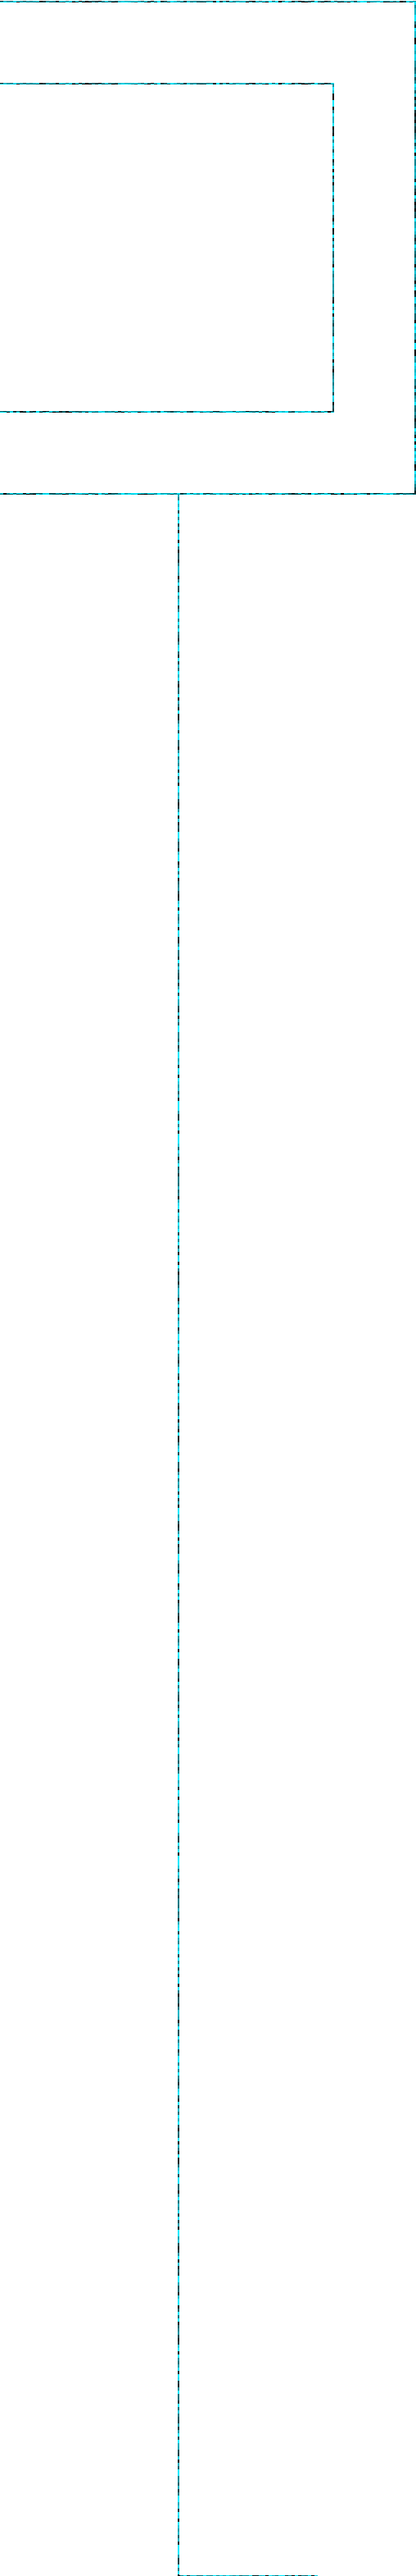
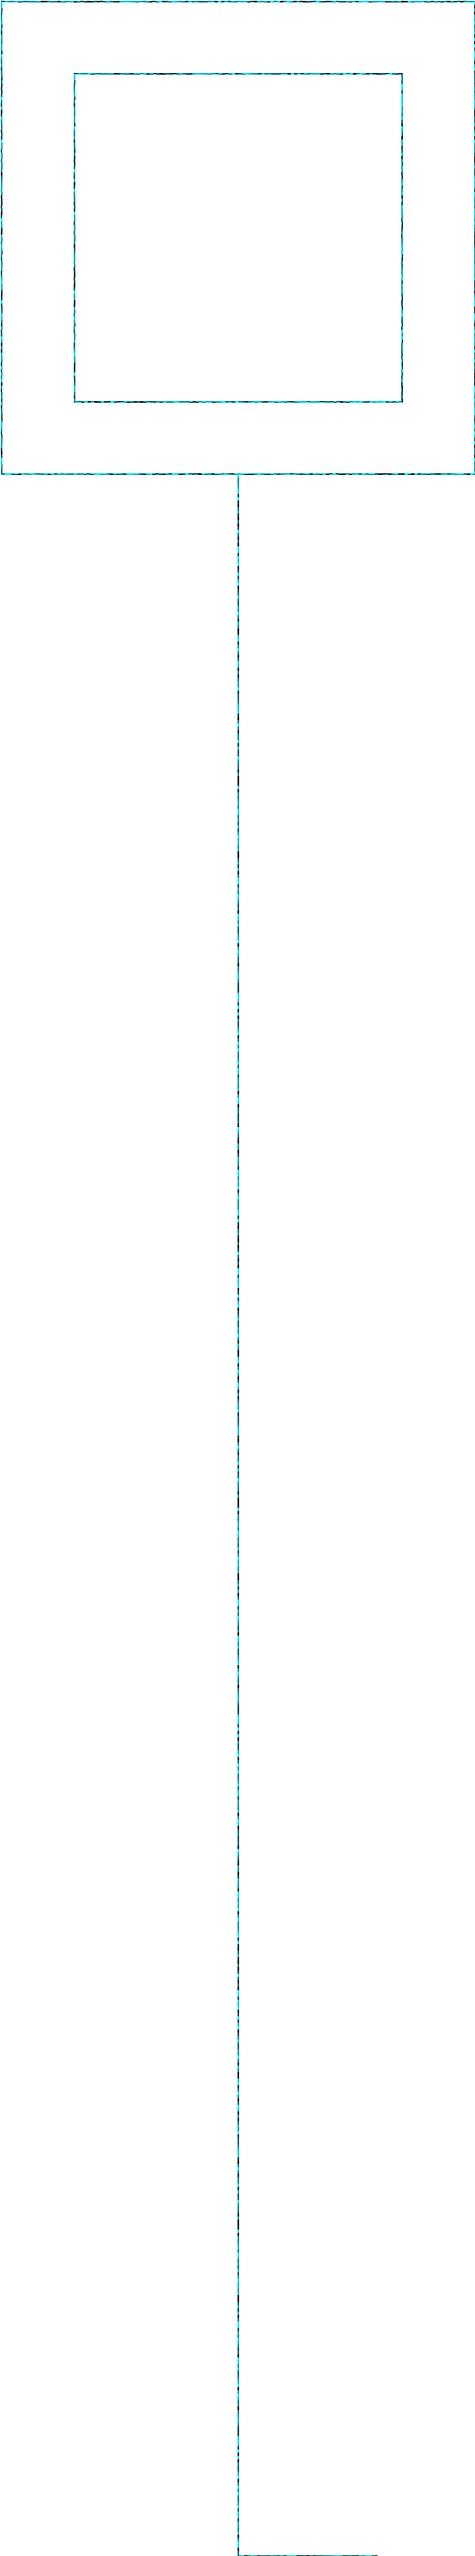
feat: add respinsive styles => xl

diff --git a/src/components/pages/home/swag/swag.jsx b/src/components/pages/home/swag/swag.jsx
@@ -4,8 +4,8 @@ import React from 'react';
 import SectionHeading from 'components/shared/section-heading';
 
 import bgBorder from './images/bg-border.png';
-import bgGlitchLeft from './images/bg-glitch-left.jpg';
-import bgGlitchRight from './images/bg-glitch-right.jpg';
+import bgLeftGlitch from './images/bg-left-glitch.jpg';
+import bgRightGlitch from './images/bg-right-glitch.jpg';
 import bg from './images/bg.jpg';
 import mug from './images/mug.jpg';
 import socks from './images/socks.jpg';
@@ -16,7 +16,7 @@ const title = 'Swag list';
 const swagList = [tShirt, mug, sticker, socks, tShirt, mug, sticker, socks];
 
 const Swag = () => (
-  <section className="safe-paddings relative overflow-hidden py-26" id="swag">
+  <section className="safe-paddings relative py-26" id="swag">
     <div className="container relative z-10">
       <SectionHeading className="text-center">{title}</SectionHeading>
       <p className="mx-auto mt-10 max-w-[716px] text-center text-lg">
@@ -41,7 +41,7 @@ const Swag = () => (
         ))}
 
         <Image
-          className="absolute top-1/2 left-1/2 -z-10 min-w-[1532px] -translate-x-1/2 -translate-y-1/2"
+          className="absolute top-1/2 left-1/2 -z-10 min-w-full max-w-[1532px] -translate-x-1/2 -translate-y-1/2 xl:max-w-[103%]"
           src={bgBorder}
           alt=""
           width={1532}
@@ -61,16 +61,16 @@ const Swag = () => (
       aria-hidden
     />
     <Image
-      className="absolute top-[46.6%] left-0 -z-10"
-      src={bgGlitchLeft}
+      className="absolute top-[46.6%] left-0 -z-10 xl:left-[-20%]"
+      src={bgLeftGlitch}
       alt=""
       width={534}
       height={17}
       aria-hidden
     />
     <Image
-      className="absolute top-[20.6%] right-0 -z-10"
-      src={bgGlitchRight}
+      className="absolute top-[20.6%] right-0 -z-10 xl:right-[-30%]"
+      src={bgRightGlitch}
       alt=""
       width={534}
       height={164}

diff --git a/src/components/pages/home/events/events.jsx b/src/components/pages/home/events/events.jsx
@@ -106,7 +106,7 @@ const Events = () => {
 
   return (
     <section className="safe-paddings relative py-26" id="events">
-      <div className="container relative">
+      <div className="container relative z-10">
         <SectionHeading className="text-center">{title}</SectionHeading>
         <p className="mx-auto mt-10 max-w-[968px] text-center text-lg">
           <span className="relative before:absolute before:-right-1.5 before:-z-10 before:h-[30px] before:w-[454px] before:bg-primary-1">
@@ -158,17 +158,17 @@ const Events = () => {
         <SignUpButton className="mx-auto mt-20" />
 
         <Image
-          className="absolute left-[-220px] bottom-[-642px]"
+          className="absolute left-[-258px] bottom-[-648px]"
           src={bgLeftLine}
-          width={253}
-          height={1569}
+          width={289}
+          height={1557}
           alt=""
           aria-hidden
         />
       </div>
 
       <Image
-        className="absolute left-0 top-2 -z-10"
+        className="absolute left-0 top-2 xl:left-[-20%]"
         src={bgLeft}
         width={434}
         height={636}
@@ -177,7 +177,7 @@ const Events = () => {
       />
 
       <Image
-        className="absolute left-0 bottom-0 -z-10"
+        className="absolute left-0 bottom-0 xl:left-[-20%]"
         src={bgLeftBottomLine}
         width={534}
         height={20}
@@ -186,7 +186,7 @@ const Events = () => {
       />
 
       <Image
-        className="absolute right-0 bottom-28 -z-10"
+        className="absolute right-0 bottom-28 xl:right-[-7%] "
         src={bgRight}
         width={175}
         height={1082}

diff --git a/src/components/pages/home/question-and-answer/question-and-answer.jsx b/src/components/pages/home/question-and-answer/question-and-answer.jsx
@@ -43,17 +43,17 @@ const QuestionAndAnswer = () => (
       <SignUpButton className="mx-auto mt-14" />
 
       <Image
-        className="absolute top-[-394px] right-[-224px]"
+        className="absolute top-[-394px] right-[-260px]"
         src={bgRightLine}
         alt=""
-        width={253}
-        height={880}
+        width={288}
+        height={868}
         aria-hidden
       />
     </div>
 
     <Image
-      className="absolute bottom-0 left-0"
+      className="absolute bottom-0 left-0 xl:left-[-30%]"
       src={bgLeft}
       alt=""
       width={960}
@@ -61,7 +61,7 @@ const QuestionAndAnswer = () => (
       aria-hidden
     />
     <Image
-      className="absolute top-0 right-0"
+      className="absolute top-0 right-0 xl:right-[-30%]"
       src={bgRight}
       alt=""
       width={960}
@@ -69,7 +69,7 @@ const QuestionAndAnswer = () => (
       aria-hidden
     />
     <Image
-      className="absolute bottom-[118px] left-0"
+      className="absolute bottom-[118px] left-0 xl:left-[-12%]"
       src={bgLeftGlitch}
       alt=""
       width={290}
@@ -77,7 +77,7 @@ const QuestionAndAnswer = () => (
       aria-hidden
     />
     <Image
-      className="absolute top-[-66px] right-0"
+      className="absolute top-[-66px] right-0 xl:right-[-6%]"
       src={bgRightGlitch}
       alt=""
       width={476}

diff --git a/src/components/pages/home/hero/hero.jsx b/src/components/pages/home/hero/hero.jsx
@@ -6,7 +6,7 @@ import SignUpButton from 'components/shared/sign-up-button';
 import bgLeftGlitch from './images/bg-left-glitch.png';
 import bgLogo from './images/bg-logo.png';
 import bgRightGlitch from './images/bg-right-glitch.png';
-import bg from './images/bg2.jpg';
+import bg from './images/bg.jpg';
 import Sponsors from './sponsors';
 
 const title = 'Hacksquad';
@@ -14,7 +14,7 @@ const description =
   'Complimentary event to win more swag, contribute code, meet community members, and participate in workshops.';
 
 const Hero = () => (
-  <section className="safe-paddings relative overflow-hidden pt-[244px] pb-26">
+  <section className="safe-paddings relative pt-[244px] pb-26">
     <div className="container relative z-10 flex flex-col items-center">
       <div className="relative">
         <h1
@@ -61,7 +61,7 @@ const Hero = () => (
     />
 
     <Image
-      className="absolute left-0 top-[16.4%]"
+      className="absolute left-0 top-[16.4%] xl:left-[-20%]"
       src={bgLeftGlitch}
       width={779}
       height={343}
@@ -72,7 +72,7 @@ const Hero = () => (
     />
 
     <Image
-      className="absolute right-0 top-[22.8%]"
+      className="absolute right-0 top-[22.8%] xl:right-[-20%]"
       src={bgRightGlitch}
       width={892}
       height={364}

diff --git a/src/styles/global.css b/src/styles/global.css
@@ -7,4 +7,8 @@
     @apply min-w-[320px] bg-black font-sans text-base leading-normal text-white antialiased;
     -webkit-tap-highlight-color: transparent;
   }
+
+  main {
+    @apply overflow-hidden;
+  }
 }
